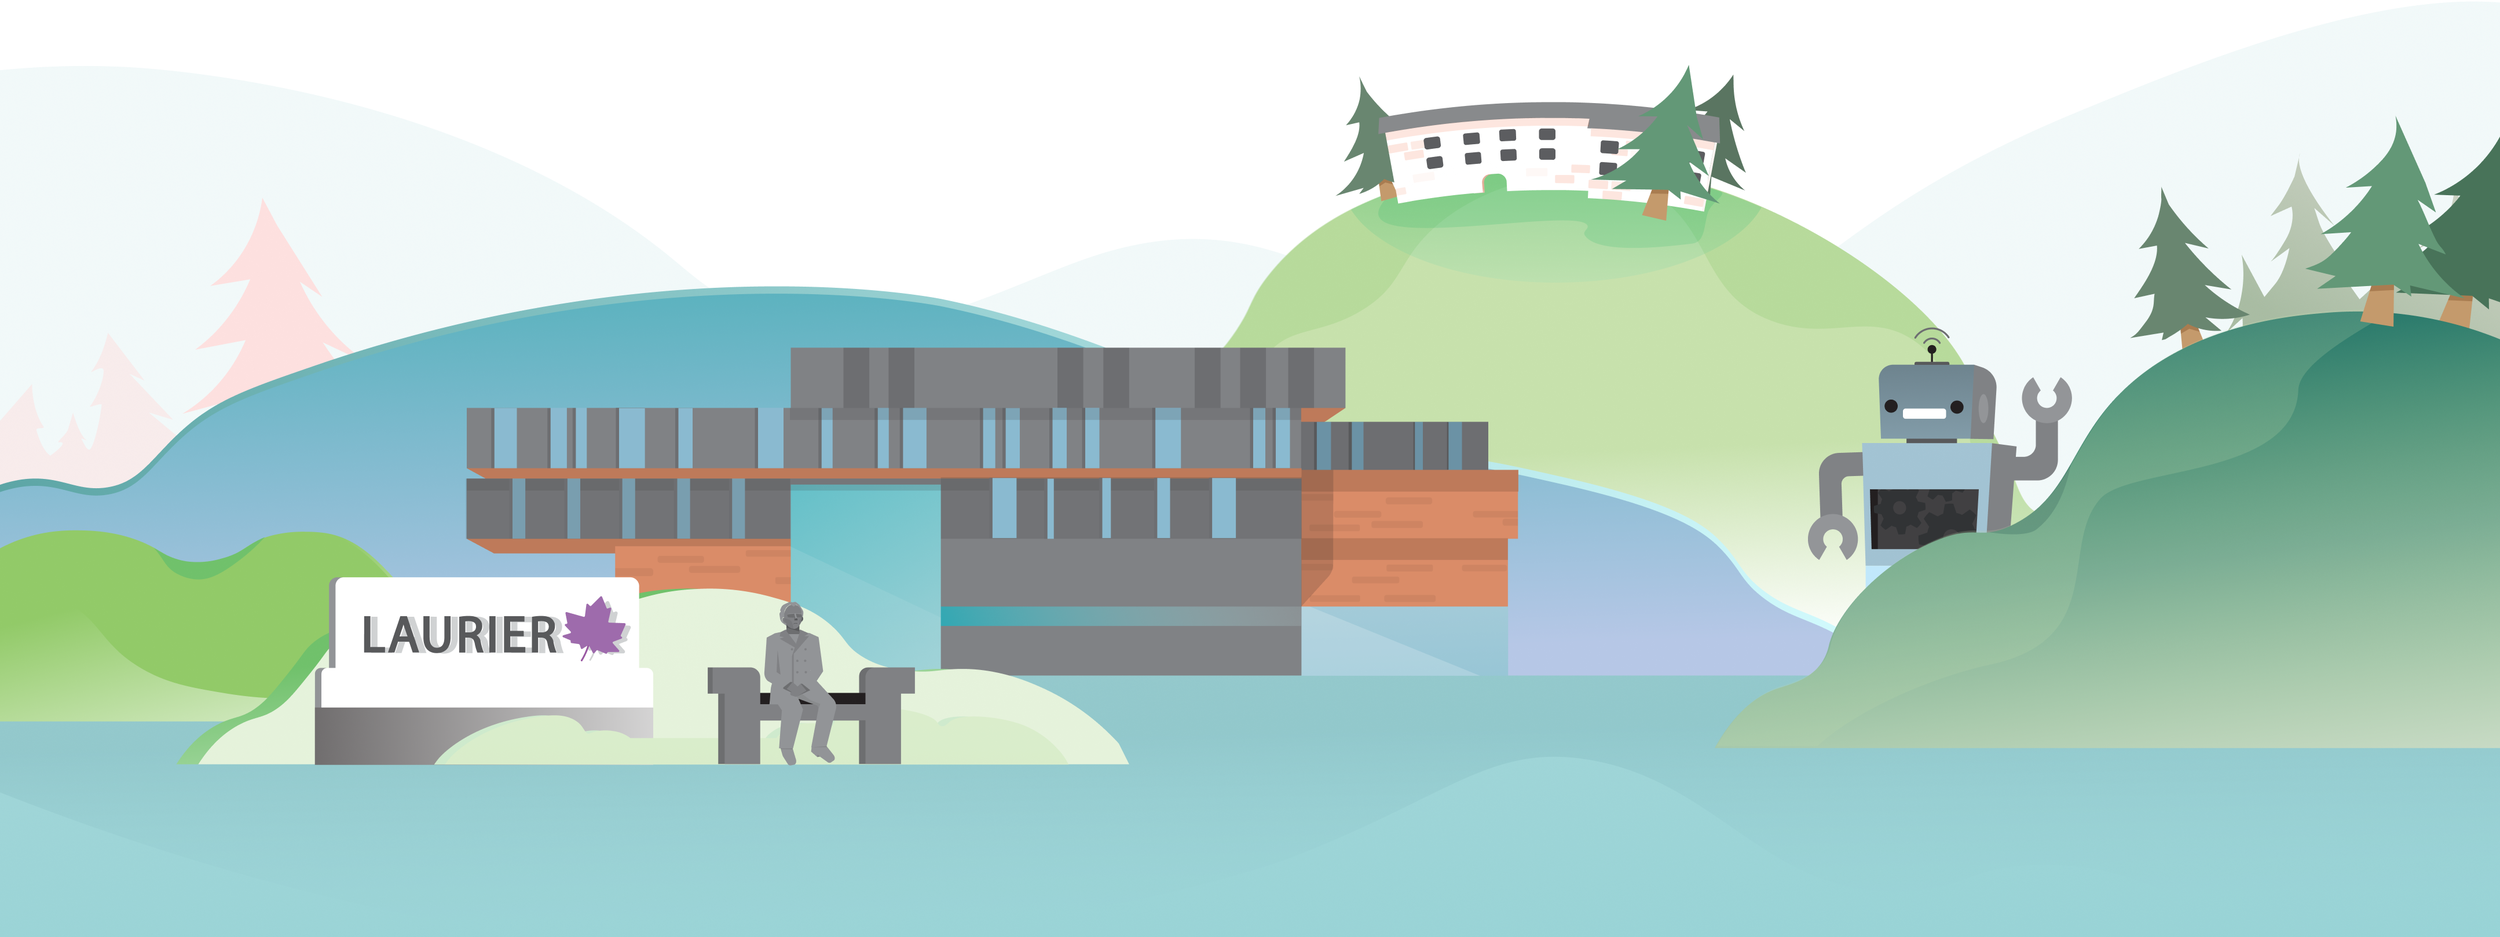
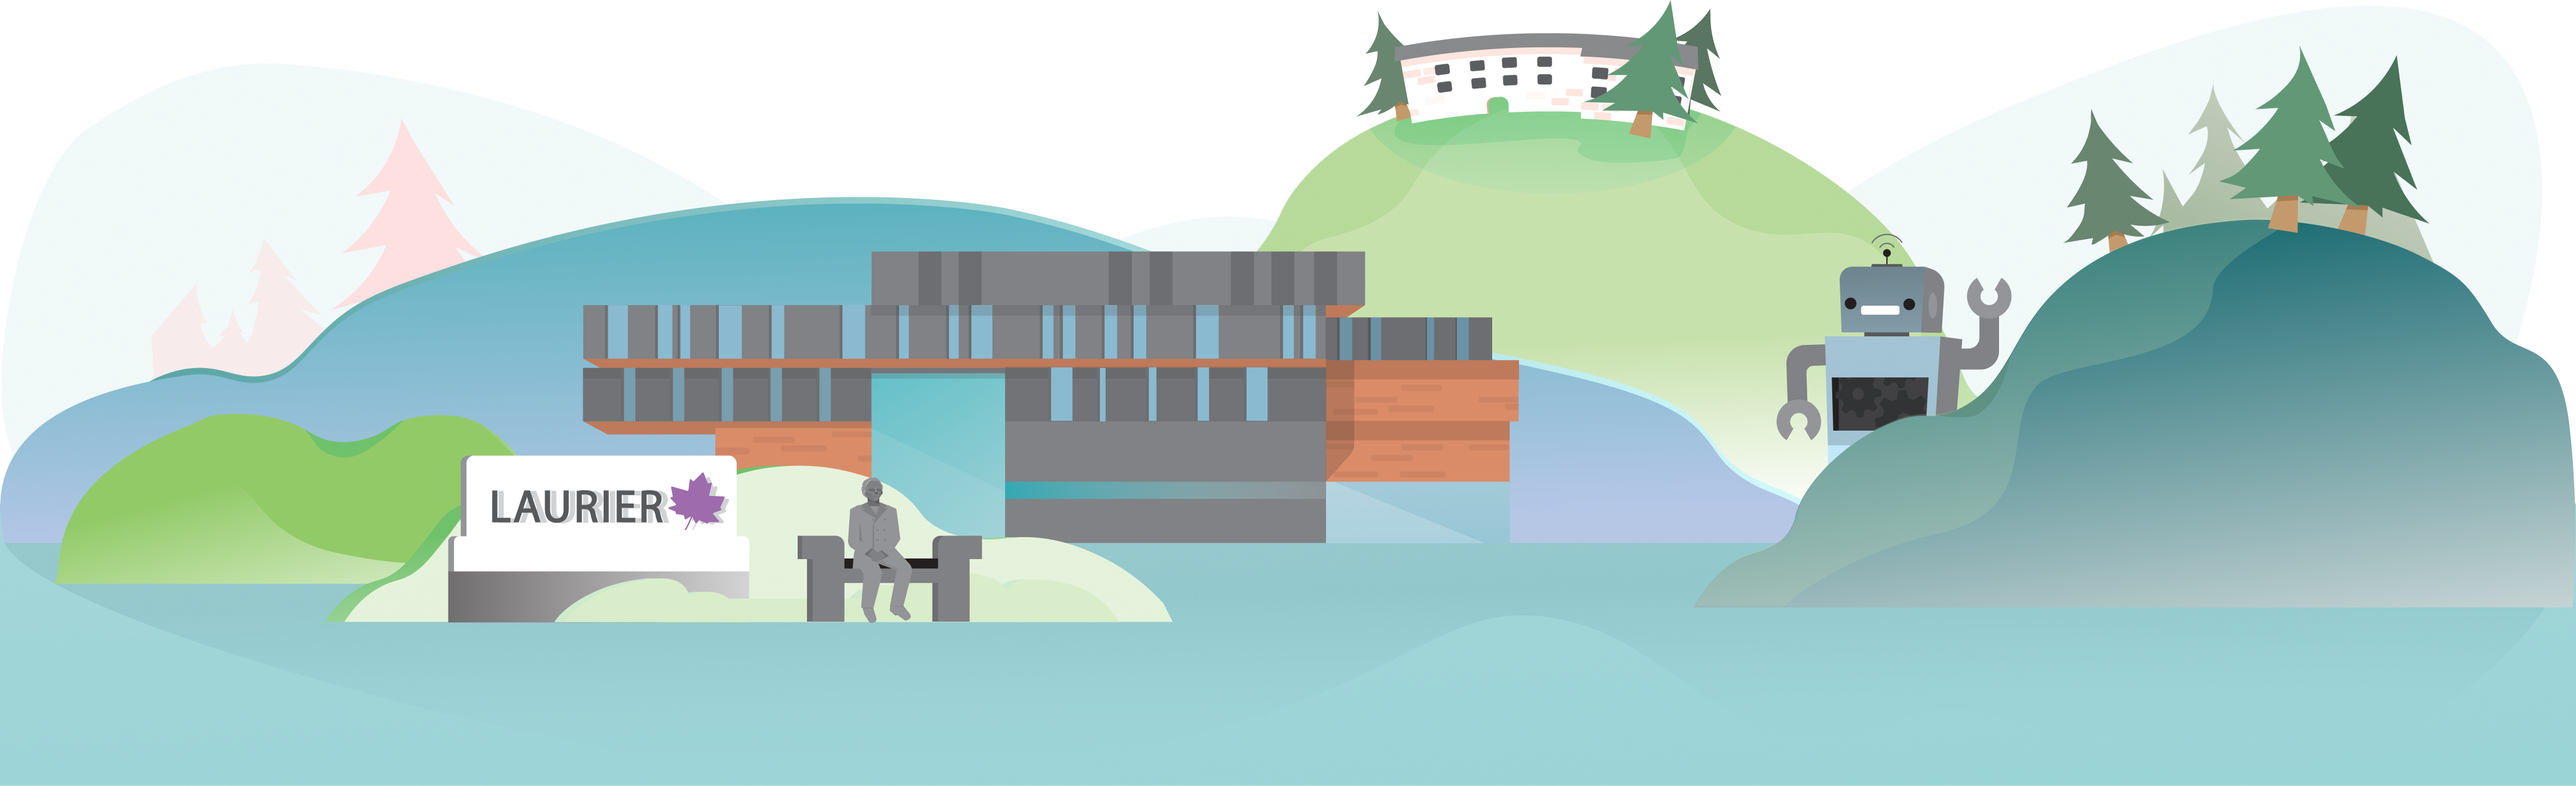
Update bottom illustration with unclipped version

diff --git a/src/components/Illustration.js b/src/components/Illustration.js
@@ -1,7 +1,7 @@
 import React from "react";
 import { Illustration1, Illustration2, Illustration3, Illustration4 } from "../assets";
 
-const Illustration = ({ src_name, position="absolute", top=undefined, bottom=undefined, width="max-content", maxWidth="100%", id=undefined }) => {
+const Illustration = ({ src_name, position="absolute", top=undefined, bottom=undefined, width="max-content", height="max-content", maxWidth="100%", id=undefined }) => {
     return (
         <div
             className="d-flex flex-column align-items-center bg-img-container"
@@ -27,7 +27,7 @@ const Illustration = ({ src_name, position="absolute", top=undefined, bottom=und
                 style={{
                     width: width,
                     maxWidth: maxWidth,
-                    height: "max-content",
+                    height: height,
                 }}
                 alt=""
             />

diff --git a/src/App.js b/src/App.js
@@ -180,6 +180,7 @@ function App() {
                         maxWidth="102em"
                         position="relative"
                         id="illustration-footer"
+                        top="5px"
                     />
                     <footer
                         id="footer"

diff --git a/src/App.css b/src/App.css
@@ -21,7 +21,7 @@ body {
     display: block;
 }
 .site-footer {
-    background-color: #99d4d6;
+    background-color: #9BD4D7;
 }
 .site-footer,
 .page-wrap:after {
